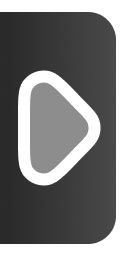
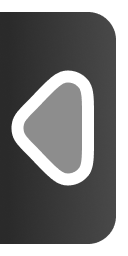
reverse the connector textures

Changed region(s): [[0.0625, 0.25, 0.8125, 0.75]]

diff --git a/ProtoWireScroll/ProtoFluxRoundedUI.cs b/ProtoWireScroll/ProtoFluxRoundedUI.cs
@@ -17,9 +17,9 @@ namespace ProtoWireScroll {
     public class ProtoFluxNodeVisual_BuildUI_Patch {
         private static readonly Uri ROUNDED_TEXTURE = new Uri("resdb:///3ee5c0335455c19970d877e2b80f7869539df43fccb8fc64b38e320fc44c154f.png");
         private static readonly Uri CONNECTOR_INPUT_TEXTURE = new Uri("https://raw.githubusercontent.com/DexyThePuppy/ProtoFluxWiresThatCanScroll/refs/heads/main/ProtoWireScroll/Images/Connector_Input.png");
-        private static readonly Uri CONNECTOR_OUTPUT_TEXTURE = new Uri("https://raw.githubusercontent.com/DexyThePuppy/ProtoFluxWiresThatCanScroll/refs/heads/main/ProtoWireScroll/Images/Connector_Output.png");
+        private static readonly Uri CONNECTOR_OUTPUT_TEXTURE = new Uri("https://raw.githubusercontent.com/DexyThePuppy/ProtoFluxWiresThatCanScroll/refs/heads/main/ProtoWireScroll/Images/Connector_Output.png"); 
         private static readonly Uri CALL_CONNECTOR_OUTPUT_TEXTURE = new Uri("https://raw.githubusercontent.com/DexyThePuppy/ProtoFluxWiresThatCanScroll/refs/heads/main/ProtoWireScroll/Images/Connector_Output.png");
-        private static readonly Uri CALL_CONNECTOR_INPUT_TEXTURE = new Uri("https://raw.githubusercontent.com/DexyThePuppy/ProtoFluxWiresThatCanScroll/refs/heads/main/ProtoWireScroll/Images/Connector_Call_Input.png");
+        private static readonly Uri CALL_CONNECTOR_INPUT_TEXTURE = new Uri("https://raw.githubusercontent.com/DexyThePuppy/ProtoFluxWiresThatCanScroll/refs/heads/main/ProtoWireScroll/Images/Connector_Input.png");
         
         // ColorMyProtoFlux color settings
         private static readonly colorX NODE_CATEGORY_TEXT_LIGHT_COLOR = new colorX(0.75f);
